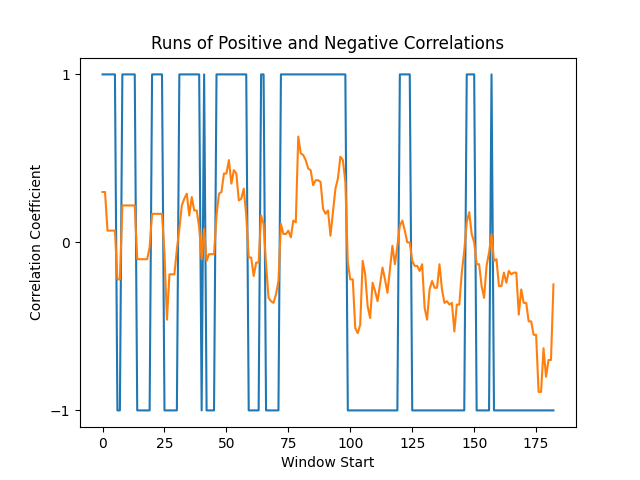
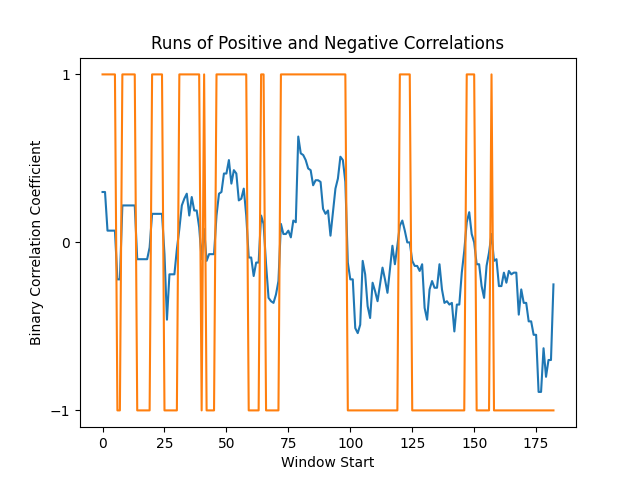
plots

Changed region(s): [[0.1562, 0.125, 0.875, 0.875], [0.0312, 0.2812, 0.0625, 0.7188], [0.3438, 0.125, 0.375, 0.1562]]

diff --git a/main.py b/main.py
@@ -1,20 +1,19 @@
 import matplotlib.pyplot as plt
 import csv
-import random
+from text_to_csv import txt_to_csv
 
 
-def rand_binary():
-    binary_string = ""
-    for _ in range(int(input("Length of binary string: "))):
-        binary_string = binary_string + str(random.randint(0, 1))
-
-
-def binary_plot(p):
-    plt.plot(p[1])
-    plt.yticks([-1, 0, 1])
+def plot(p, b_p):
     plt.xlabel("Window Start")
     plt.ylabel("Binary Correlation Coefficient")
     plt.title("Runs of Positive and Negative Correlations")
+    plt.yticks([-0.25, 0, 0.25])
+
+    plt.axhline(y=0, color="r", linestyle='dashed')
+    plt.plot(p[1], label="")
+    plt.plot(b_p[1], label="")
+
+    plt.savefig("plot1.png")
 
 
 def intervals(s, min):
@@ -37,17 +36,8 @@ def intervals(s, min):
     return inter
 
 
-def float_plot(p):
-    plt.plot(p[1])
-    plt.yticks([-1, 0, 1])
-    plt.xlabel("Window Start")
-    plt.ylabel("Correlation Coefficient")
-    plt.title("Runs of Positive and Negative Correlations")
-    plt.savefig("plot.png")
-
-
 data = []
-with open('data.csv', newline='') as csvfile:
+with open('combined_cor_analysis_results.csv', newline='') as csvfile:
     d = csv.reader(csvfile, delimiter=',', quotechar='|')
     for row in d:
         data.append(row)
@@ -62,10 +52,8 @@ for i in ints:
         points[1].append(round(float(data[j][1]), 2))
         b_points[0].append(data[j][0])
         if float(data[j][1]) > 0:
-            b_points[1].append(1)
+            b_points[1].append(0.25)
         else:
-            b_points[1].append(-1)
+            b_points[1].append(-0.25)
 
-print(points)
-binary_plot(b_points)
-float_plot(points)
+plot(points, b_points)

diff --git a/text_to_csv.py b/text_to_csv.py
@@ -1,0 +1,5 @@
+import pandas as pd
+
+def txt_to_csv(file, csv_file):
+    read_file = pd.read_csv(file)
+    read_file.to_csv(csv_file, index=None)
